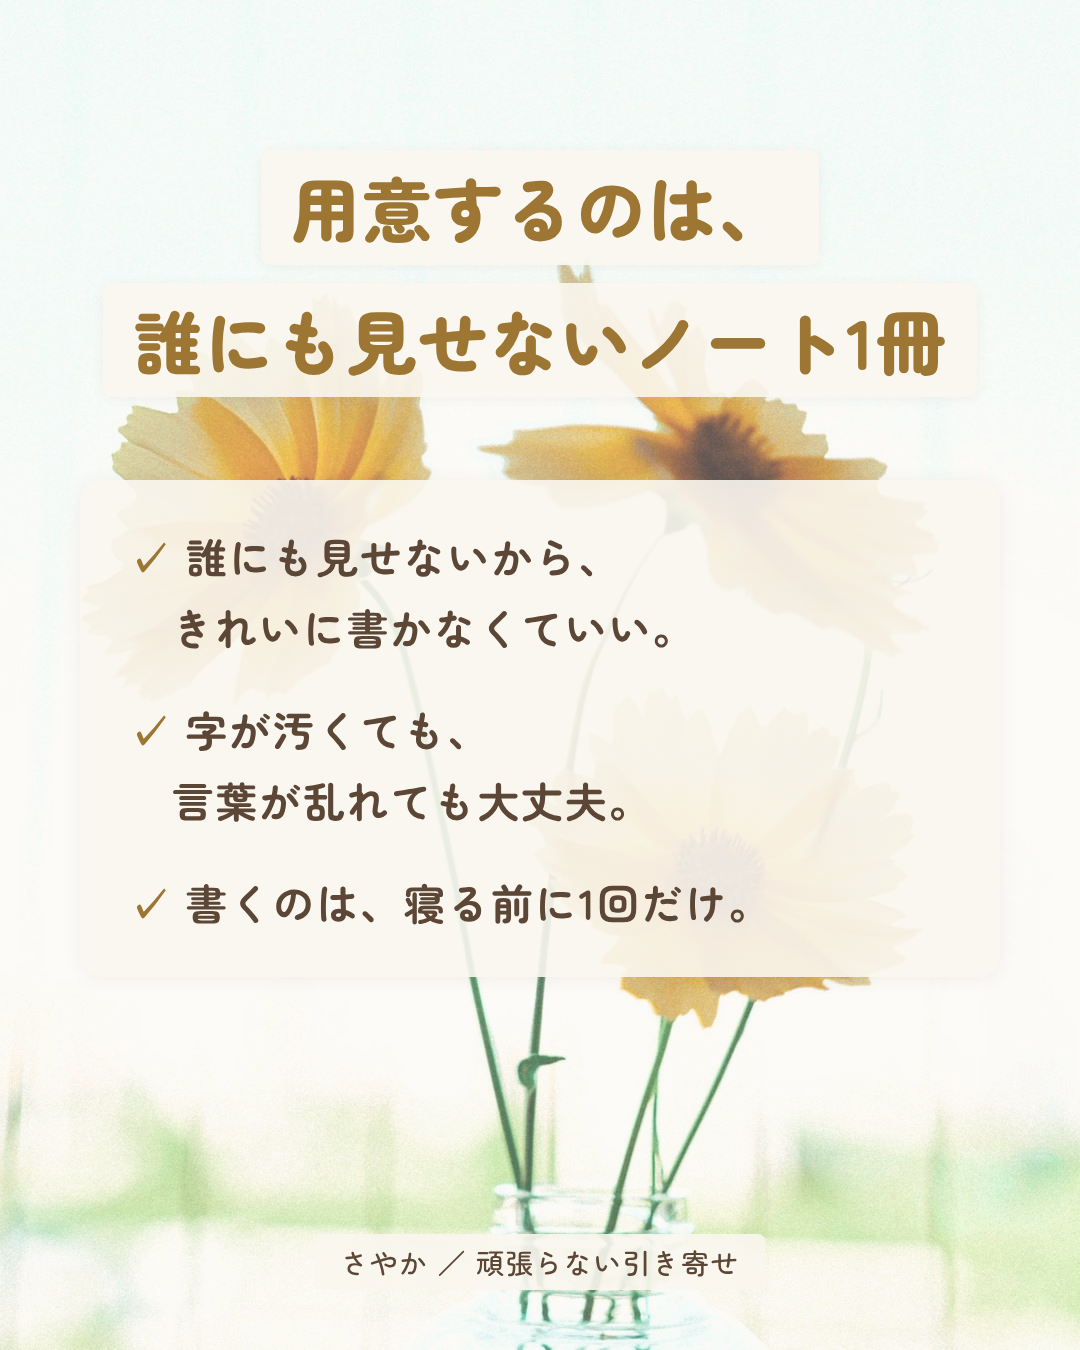
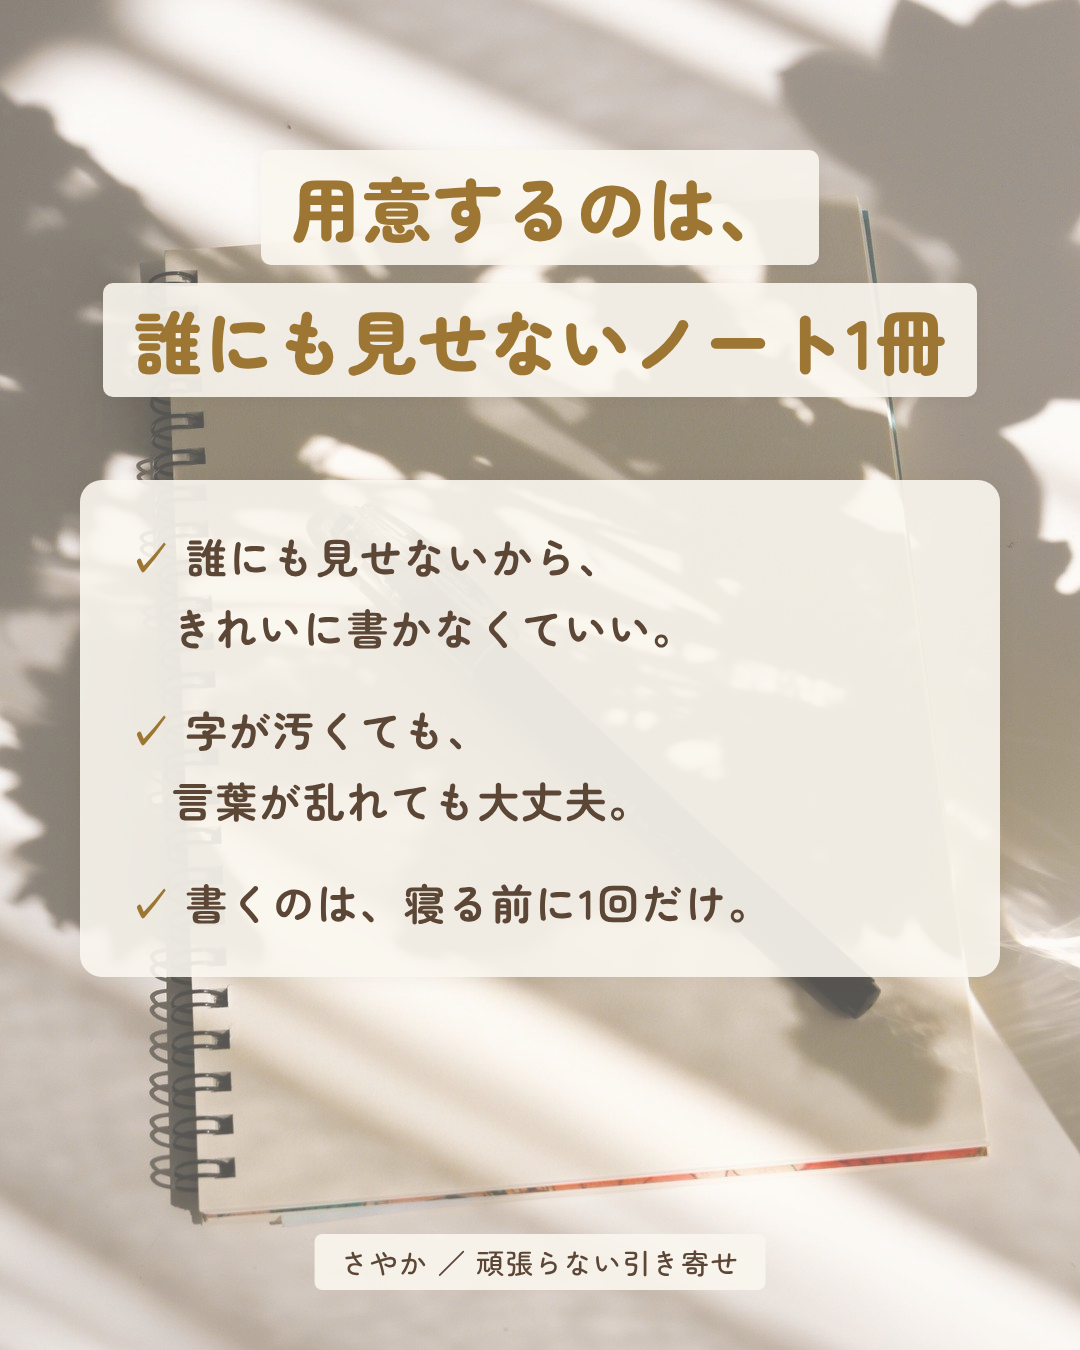
Swap second carousel backgrounds to the notebook photos
Claude-Session: https://claude.ai/code/session_01YUXq2WjFGxvpb1f5f2asyh

diff --git a/hasegawa_instagram_post02_honne_note.md b/hasegawa_instagram_post02_honne_note.md
@@ -150,7 +150,7 @@
 | 4〜7P | 空・花・窓辺など、文字の邪魔にならない明るい写真 |
 | 8P | 1Pと同じ写真、または明るい花の写真 |
 
-**今回の画像（`carousel/hasegawa_post02/png/`）**：1本目と同じ9枚の写真を、ページの組み合わせを変えて使った（1P＝マグカップとキーボード、2P＝窓辺の女性、3P＝コスモス、4P＝紅葉の並木道、5P＝落ち葉と足元、6P＝菜の花、7P＝ガーベラ、8P＝花束の後ろ姿）。ノートやペンの写真が用意できたら、`photo/p01.jpg` などを差し替えて `npm run render` で作り直す。
+**今回の画像（`carousel/hasegawa_post02/png/`）**：本人が2本目用に選んだ写真を使用（1P＝ピンクと大理石のノートとペン、2P＝本とノート（白黒）、3P＝光と影の中のノートとペン、4P＝カフェの椅子とテーブル、5P＝ベッドでパソコンと紅茶、6P＝ソファ、7P＝キャンドル、8P＝ココアのマグ）。差し替えは `photo/p01.jpg` などを置き換えて `npm run render`。
 
 ---
 
